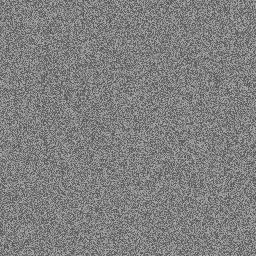
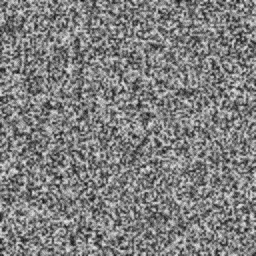
Warm the cover mesh and strengthen the grain
Shift the cover and thank-you blobs to honey, amber and champagne with one warm silver highlight, and make the grain coarser, stronger and slightly flickering.

diff --git a/css/style.css b/css/style.css
@@ -6339,14 +6339,14 @@ html.contact-open body {
    ========================================================================== */
 @font-face {
   font-family: "Nyght Serif";
-  src: url("../assets/fonts/NyghtSerif-Regular.woff2?v=66") format("woff2");
+  src: url("../assets/fonts/NyghtSerif-Regular.woff2?v=67") format("woff2");
   font-weight: 400;
   font-style: normal;
   font-display: swap;
 }
 @font-face {
   font-family: "Nyght Serif";
-  src: url("../assets/fonts/NyghtSerif-RegularItalic.woff2?v=66") format("woff2");
+  src: url("../assets/fonts/NyghtSerif-RegularItalic.woff2?v=67") format("woff2");
   font-weight: 400;
   font-style: italic;
   font-display: swap;
@@ -6457,14 +6457,14 @@ html.consult-skip-cover body.consult-page.is-cover .consult-flow {
 .consult-cover__blob--1 {
   left: -18%;
   top: -24%;
-  background: radial-gradient(circle at 50% 50%, #f2d27a 0%, rgba(212, 175, 55, 0.58) 32%, rgba(212, 175, 55, 0) 68%);
+  background: radial-gradient(circle at 50% 50%, #f5c66b 0%, rgba(224, 168, 58, 0.6) 32%, rgba(224, 168, 58, 0) 68%);
   animation: consult-cover-blob-1 8s ease-in-out infinite;
 }
 .consult-cover__blob--2 {
   right: -16%;
   top: -10%;
   left: auto;
-  background: radial-gradient(circle at 50% 50%, #e6e8eb 0%, rgba(192, 192, 192, 0.55) 34%, rgba(142, 148, 156, 0) 68%);
+  background: radial-gradient(circle at 50% 50%, #e9e1d3 0%, rgba(233, 225, 211, 0.4) 34%, rgba(233, 225, 211, 0) 68%);
   animation: consult-cover-blob-2 10s ease-in-out infinite;
 }
 .consult-cover__blob--3 {
@@ -6472,7 +6472,7 @@ html.consult-skip-cover body.consult-page.is-cover .consult-flow {
   top: 22%;
   width: min(64vw, 760px);
   height: min(64vw, 760px);
-  background: radial-gradient(circle at 50% 50%, #e8d5a8 0%, rgba(242, 210, 122, 0.5) 30%, rgba(232, 213, 168, 0) 68%);
+  background: radial-gradient(circle at 50% 50%, #f3dcae 0%, rgba(245, 198, 107, 0.48) 30%, rgba(243, 220, 174, 0) 68%);
   animation: consult-cover-blob-3 7s ease-in-out infinite;
 }
 .consult-cover__blob--4 {
@@ -6480,7 +6480,7 @@ html.consult-skip-cover body.consult-page.is-cover .consult-flow {
   bottom: -22%;
   left: auto;
   top: auto;
-  background: radial-gradient(circle at 50% 50%, #d4af37 0%, rgba(184, 134, 43, 0.48) 32%, rgba(184, 134, 43, 0) 68%);
+  background: radial-gradient(circle at 50% 50%, #e0a83a 0%, rgba(201, 138, 46, 0.52) 32%, rgba(201, 138, 46, 0) 68%);
   animation: consult-cover-blob-4 9s ease-in-out infinite;
 }
 .consult-cover__blob--5 {
@@ -6489,7 +6489,7 @@ html.consult-skip-cover body.consult-page.is-cover .consult-flow {
   top: auto;
   width: min(70vw, 840px);
   height: min(70vw, 840px);
-  background: radial-gradient(circle at 50% 50%, #c0c0c0 0%, rgba(142, 148, 156, 0.52) 34%, rgba(142, 148, 156, 0) 68%);
+  background: radial-gradient(circle at 50% 50%, #c98a2e 0%, rgba(184, 116, 58, 0.4) 34%, rgba(184, 116, 58, 0) 68%);
   animation: consult-cover-blob-5 11s ease-in-out infinite;
 }
 .consult-cover__vignette {
@@ -6506,13 +6506,20 @@ html.consult-skip-cover body.consult-page.is-cover .consult-flow {
   width: 180%;
   height: 180%;
   pointer-events: none;
-  opacity: 0.22;
-  mix-blend-mode: overlay;
-  background-image: url("../assets/consult-cover-grain.png?v=66");
-  background-size: 256px 256px;
+  opacity: 0.5;
+  mix-blend-mode: soft-light;
+  background-image: url("../assets/consult-cover-grain.png?v=67");
+  background-size: 280px 280px;
   background-repeat: repeat;
-  animation: consult-cover-grain 8s linear infinite;
-  will-change: transform;
+  animation: consult-cover-grain 8s linear infinite, consult-cover-grain-flicker 0.36s steps(4, end) infinite;
+  will-change: transform, background-position;
+}
+@keyframes consult-cover-grain-flicker {
+  0% { background-position: 0 0; }
+  25% { background-position: 45px -30px; }
+  50% { background-position: -36px 40px; }
+  75% { background-position: 28px 18px; }
+  100% { background-position: 0 0; }
 }
 @keyframes consult-cover-blob-1 {
   0%, 100% { transform: translate3d(0, 0, 0) scale(1); }

diff --git a/consulenze.html b/consulenze.html
@@ -20,7 +20,7 @@
   <link href="https://fonts.googleapis.com/css2?family=Migra&display=swap" rel="stylesheet" />
   <link href="https://fonts.googleapis.com/css2?family=Ubuntu+Mono&display=swap" rel="stylesheet" />
   <link rel="stylesheet" href="https://cdnjs.cloudflare.com/ajax/libs/font-awesome/6.4.0/css/all.min.css" />
-  <link rel="stylesheet" href="css/style.css?v=66" />
+  <link rel="stylesheet" href="css/style.css?v=67" />
   <script>
     if (location.hash === '#brief') document.documentElement.classList.add('consult-skip-cover');
   </script>
